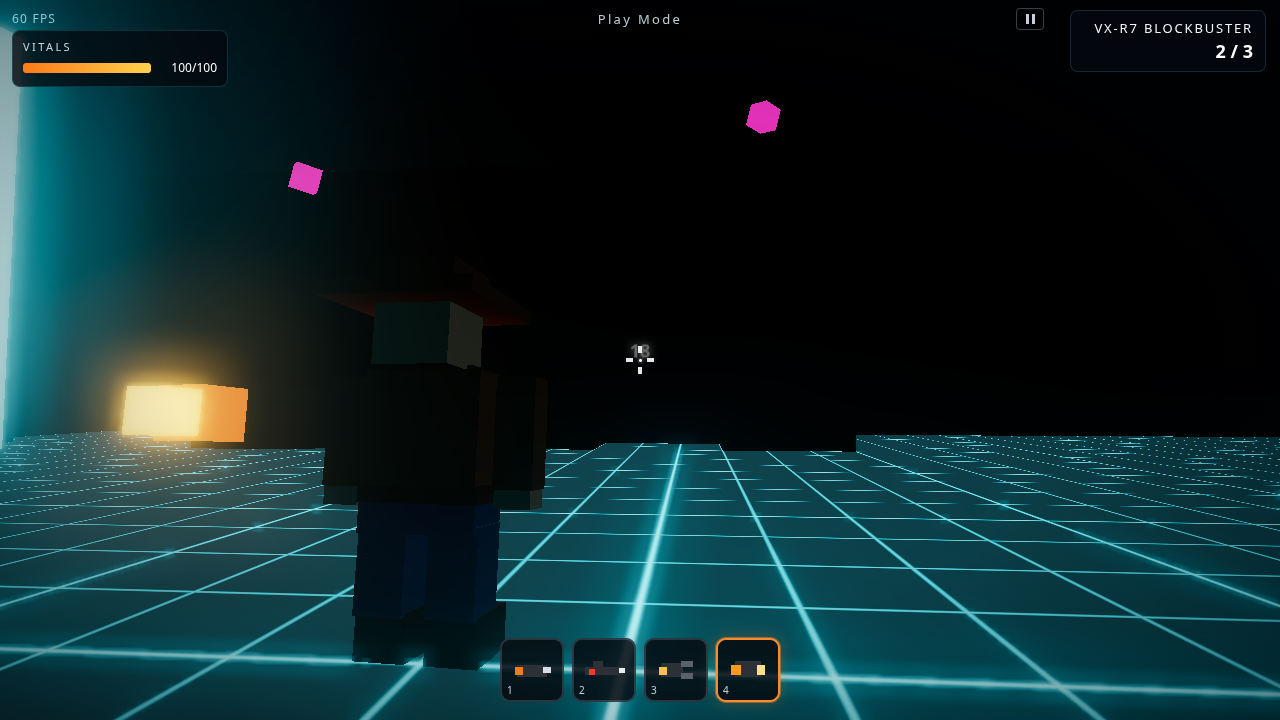
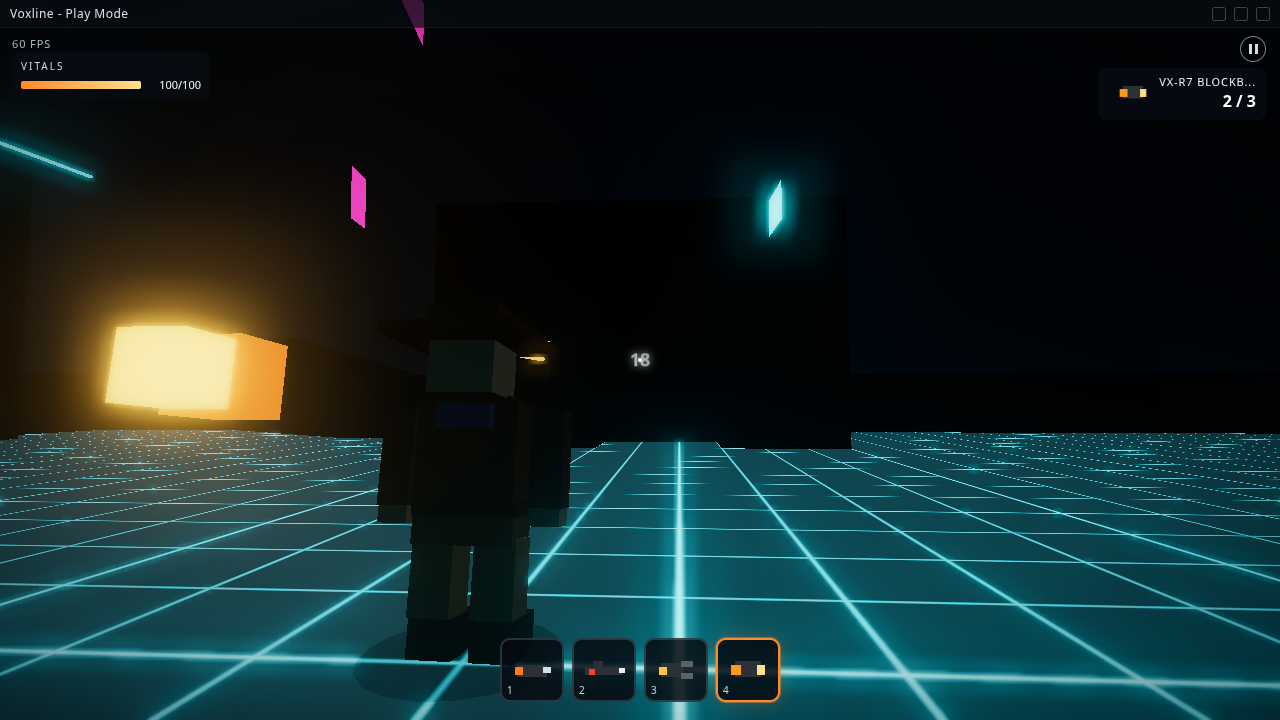
Hide cyan gun lights on the backpack and refresh shots.
Keep the holstered rocket on the cowboy's back without a visor-like neon slab, and update the range screenshots.

diff --git a/src/player.js b/src/player.js
@@ -76,8 +76,8 @@ export function createCowboy() {
   L.add(weaponRoot)
 
   const backRoot = new THREE.Group()
-  backRoot.position.set(-0.08, 1.22, 0.34)
-  backRoot.rotation.set(0.55, 0.35, 0.15)
+  backRoot.position.set(0.02, 1.18, 0.36)
+  backRoot.rotation.set(1.05, 0.15, 0.08)
   L.add(backRoot)
 
   const guns = {
@@ -93,18 +93,15 @@ export function createCowboy() {
   guns.cannon.visible = true
 
   const holster = {
-    cannon: makeGun('cannon'),
-    autogun: makeGun('autogun'),
     scattergun: makeGun('scattergun'),
     blockbuster: makeGun('blockbuster'),
   }
-  let i = 0
-  for (const [id, g] of Object.entries(holster)) {
-    g.scale.setScalar(id === 'blockbuster' ? 0.82 : 0.48)
-    g.position.set((i - 1.4) * 0.1, id === 'blockbuster' ? 0.12 : 0.02, 0)
-    backRoot.add(g)
-    i++
-  }
+  holster.scattergun.scale.setScalar(0.46)
+  holster.scattergun.position.set(-0.16, 0, 0)
+  holster.blockbuster.scale.setScalar(0.78)
+  holster.blockbuster.position.set(0.08, 0.06, 0)
+  backRoot.add(holster.scattergun)
+  backRoot.add(holster.blockbuster)
 
   blobShadow(root, 0.03, 0.46)
 
@@ -117,7 +114,6 @@ function makeGun(kind) {
   const mid = mat(0x4a5158)
   const acc = glowMat(0xff7a18)
   const glow = glowMat(0xffc14a)
-  const blue = glowMat(0x3cf0ff)
   if (kind === 'cannon') {
     box(g, 0, 0, -0.28, 0.28, 0.34, 0.62, dark)
     box(g, 0, 0.04, -0.72, 0.2, 0.2, 0.42, mid)
@@ -128,7 +124,6 @@ function makeGun(kind) {
     box(g, 0, 0.16, -0.08, 0.16, 0.16, 0.34, mid)
     box(g, 0.12, -0.1, -0.06, 0.1, 0.22, 0.2, acc)
     box(g, 0, 0.04, -1.02, 0.14, 0.14, 0.2, glow)
-    box(g, 0, 0.16, -0.5, 0.08, 0.08, 0.22, blue)
   } else if (kind === 'scattergun') {
     box(g, 0, 0, -0.34, 0.34, 0.28, 0.72, dark)
     box(g, 0.12, 0.1, -0.68, 0.12, 0.12, 0.42, mid)
@@ -138,7 +133,6 @@ function makeGun(kind) {
     box(g, 0.08, 0.16, -0.22, 0.36, 0.34, 0.86, dark)
     box(g, 0.08, 0.16, -0.72, 0.28, 0.28, 0.32, acc)
     box(g, 0.08, 0.16, -0.98, 0.24, 0.24, 0.22, glow)
-    box(g, 0.08, 0.32, -0.4, 0.12, 0.12, 0.28, blue)
   }
   g.userData.muzzle = new THREE.Vector3(0, 0.04, kind === 'blockbuster' ? -1.12 : -1.05)
   return g
